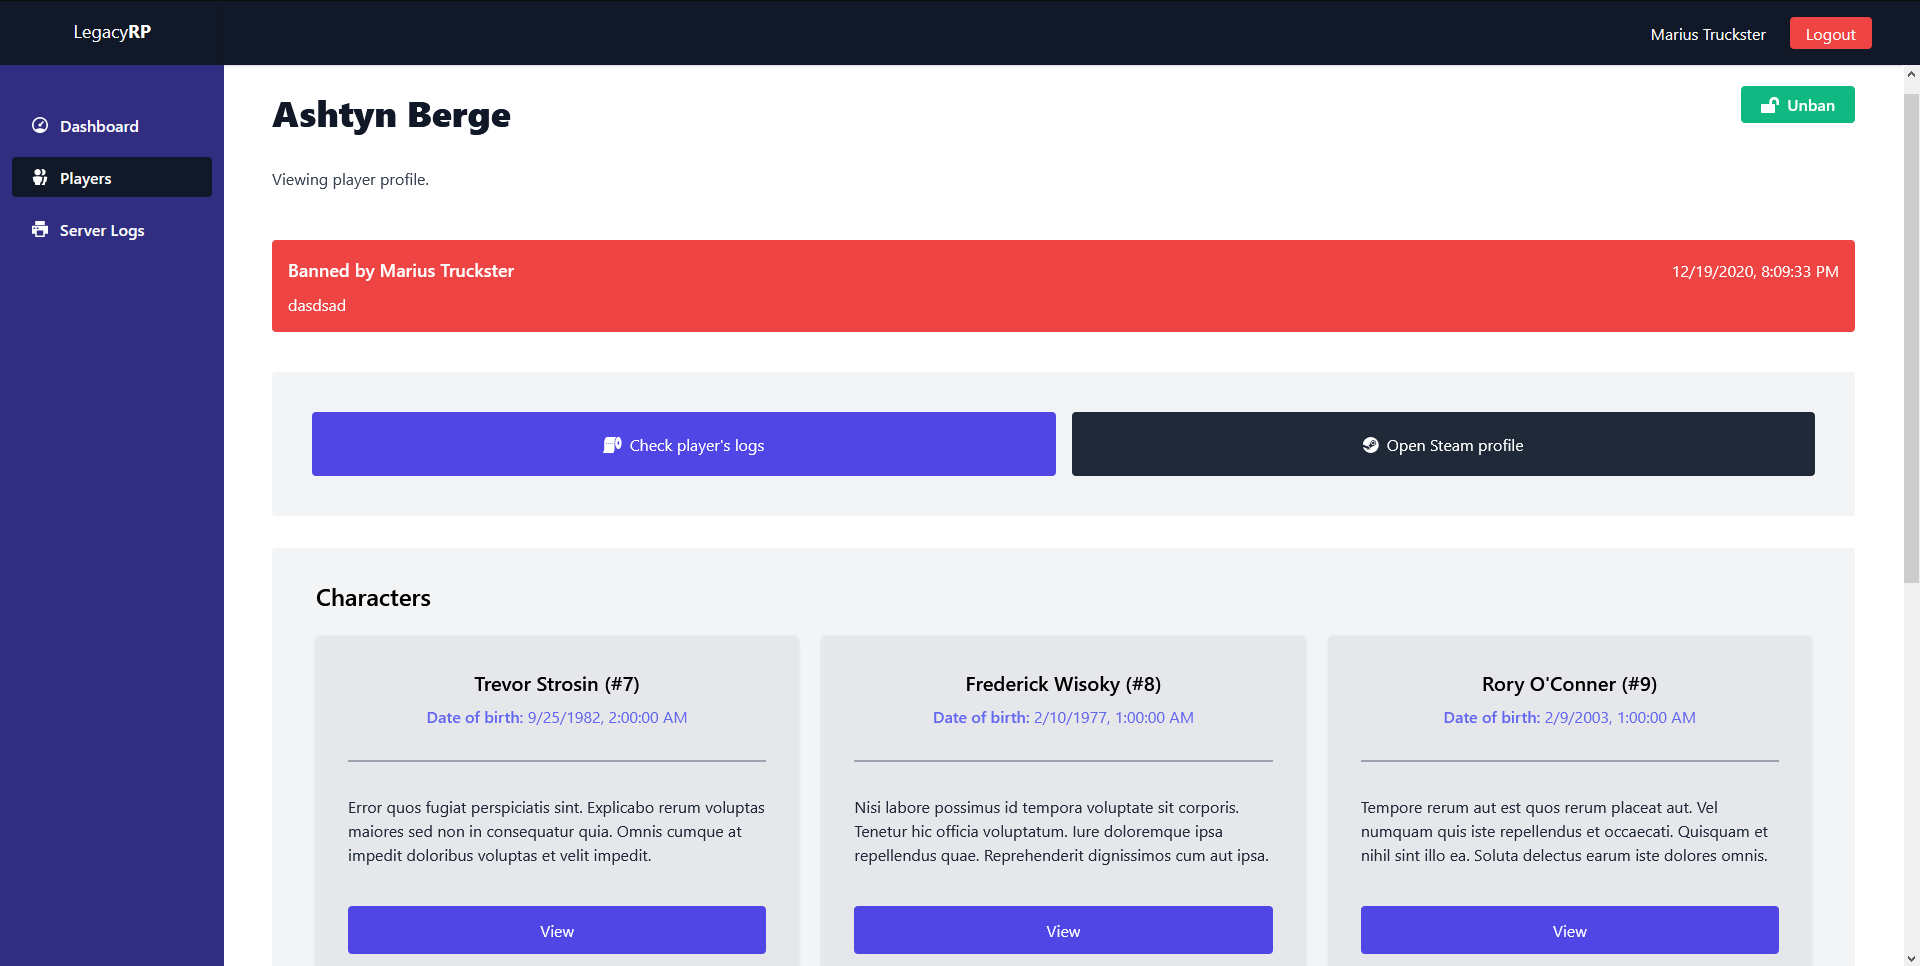
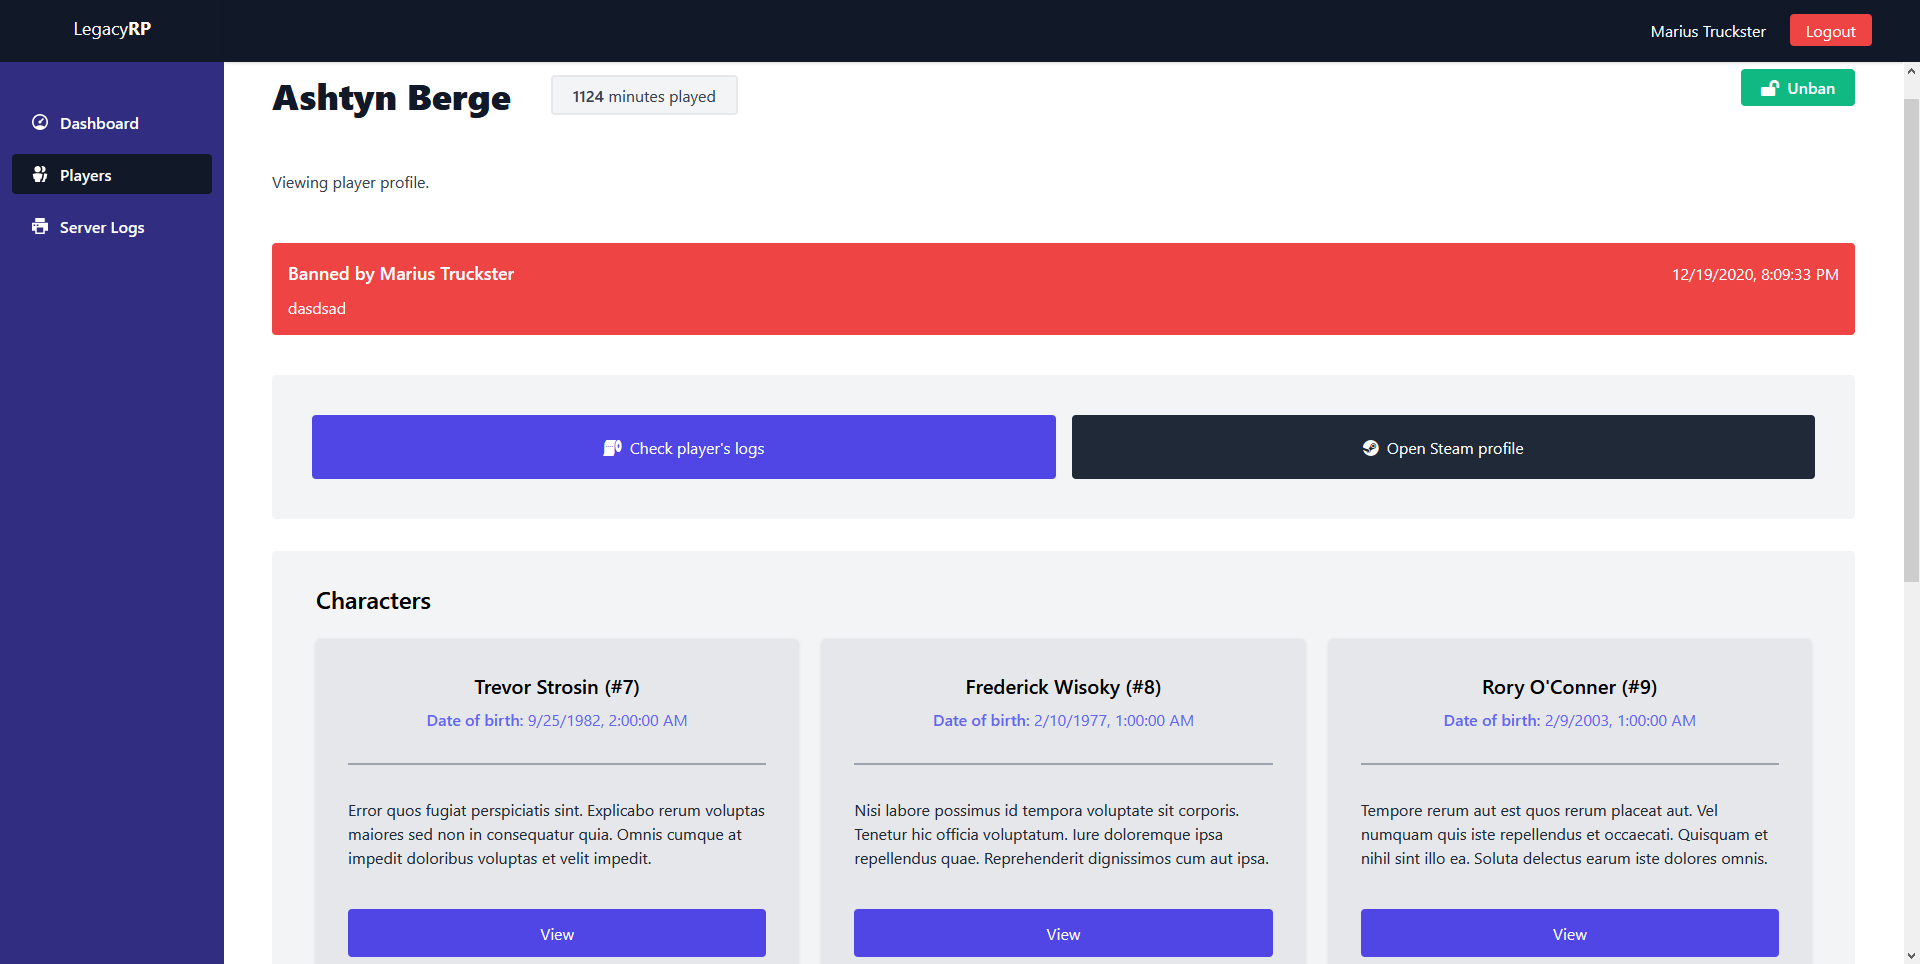
add playtime to players index and show

diff --git a/resources/js/Pages/Players/Index.vue b/resources/js/Pages/Players/Index.vue
@@ -22,6 +22,7 @@
                 <tr class="text-left font-semibold">
                     <th class="px-6 py-4">Identifier</th>
                     <th class="px-6 py-4">Name</th>
+                    <th class="px-6 py-4">Playtime</th>
                     <th class="px-6 py-4">Warnings</th>
                     <th class="px-6 py-4 w-64">Banned?</th>
                     <th class="px-6 py-4 w-24"></th>
@@ -29,6 +30,7 @@
                 <tr class="hover:bg-gray-100" v-for="player in players.data" v-bind:key="player.id">
                     <td class="px-6 py-3 border-t">{{ player.steamIdentifier }}</td>
                     <td class="px-6 py-3 border-t">{{ player.playerName }}</td>
+                    <td class="px-6 py-3 border-t">{{ player.playTime }} minutes</td>
                     <td class="px-6 py-3 border-t">{{ player.warnings }}</td>
                     <td class="px-6 py-3 border-t text-center">
                         <span class="block bg-red-500 text-white rounded px-4 py-2" v-if="player.isBanned">

diff --git a/resources/js/Pages/Players/Show.vue b/resources/js/Pages/Players/Show.vue
@@ -2,9 +2,14 @@
     <div>
         <div class="flex flex-grow items-start justify-between mb-12">
             <div class="prose">
-                <h1>
-                    {{ player.playerName }}
-                </h1>
+                <div class="flex items-start space-x-10">
+                    <h1>
+                        {{ player.playerName }}
+                    </h1>
+                    <div class="px-5 py-1 rounded bg-gray-100 border-2 border-gray-200">
+                        <span class="font-semibold">{{ player.playTime }}</span> minutes played
+                    </div>
+                </div>
                 <p>
                     Viewing player profile.
                 </p>

diff --git a/app/Http/Resources/PlayerResource.php b/app/Http/Resources/PlayerResource.php
@@ -4,6 +4,7 @@ namespace App\Http\Resources;
 
 use Illuminate\Http\Request;
 use Illuminate\Http\Resources\Json\JsonResource;
+use Illuminate\Support\Facades\Date;
 
 class PlayerResource extends JsonResource
 {
